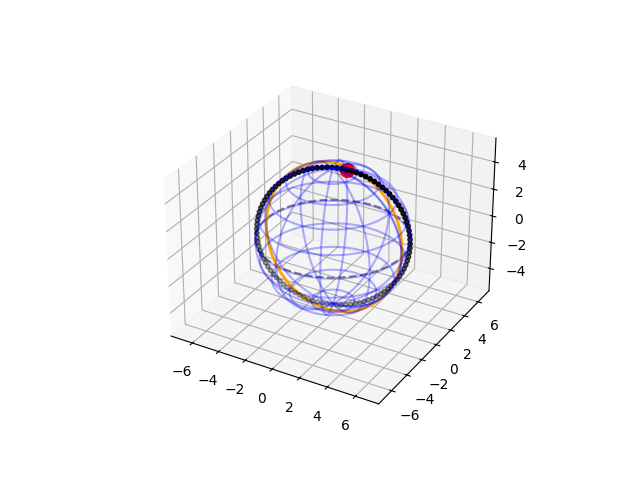
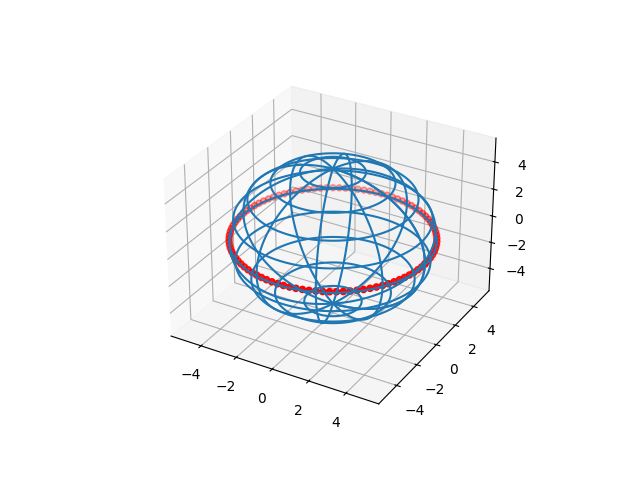
erydjyn

diff --git a/task4.py b/task4.py
@@ -13,68 +13,51 @@ z = R * np.outer(np.ones(np.size(phi)), np.cos(theta))
 
 ax.plot_wireframe(x, y, z, rstride=10, cstride=10)
 
-x1 = R * np.cos(phi)
-y1 = R * np.sin(phi)
-z1 = np.zeros_like(phi)
-
 x_1 = R * np.cos(phi)
 y_1 = R * np.sin(phi)
 z_1 = np.zeros(100)
 
-a = np.radians(40)    
-A = np.radians(250) 
-H = np.radians(50) 
+a = np.radians(40)      
+H = np.radians(250) 
+A = np.radians(50)
 
-x_2 = x_1
-y_2 = y_1 * np.cos(a) - z_1 * np.sin(a)
-z_2 = y_1 * np.sin(a) + z_1 * np.cos(a)
+x1 = x_1
+y1 = y_1 * np.cos(a) - z_1 * np.sin(a)
+z1 = y_1 * np.sin(a) + z_1 * np.cos(a)
 
-x2 = x1
-y2 = y1 * np.cos(a) - z1 * np.sin(a)
-z2 = y1 * np.sin(a) + z1 * np.cos(a)
+x2 = x1 * np.cos(H) + z1 * np.sin(H)
+y2 = y1
+z2 = -x1 * np.sin(H) + z1 * np.cos(H)
 
-x3 = x2 * np.cos(H) + z2 * np.sin(H)
-y3 = y2
-z3 = -x2 * np.sin(H) + z2 * np.cos(H)
+x3 = x2 * np.cos(A) - y2 * np.sin(A)
+y3 = x2 * np.sin(A) + y2 * np.cos(A)
+z3 = z2
 
-x_3 = x3 * np.cos(A) - y3 * np.sin(A)
-y_3 = x3 * np.sin(A) + y3 * np.cos(A)
-z_3 = z3
-ax.plot(x_1, y_1, z_1, color='r' )
+ax.plot(x_1, y_1, z_1, 'r')
 
-ax.plot(x_2, y_2, z_2, color='orange')
+ax.plot(x1, y1, z1, 'orange')
 
-ax.plot(x_3, y_3, z_3, color='y')
+ax.plot(x3, y3, z3, color='y')
 
-
-a_tok = (40)  
-b_tok = 250  
-t_tok = (50)  
-
-a_rad = np.radians(a_tok)
-b_rad = np.radians(b_tok)
-t_rad = np.radians(t_tok)
-
-x0 = R * np.cos(b_rad) * np.cos(t_rad)  
-y0 = R * np.cos(b_rad) * np.sin(t_rad)
-z0 = R * np.sin(b_rad)
+x0 = R * np.cos(a) * np.cos(A)
+y0 = R * np.cos(a) * np.sin(A)
+z0 = R * np.sin(a)
 
 x1_tok = x0
-y1_tok = y0 * np.cos(a_rad) - z0 * np.sin(a_rad)
-z1_tok = y0 * np.sin(a_rad) + z0 * np.cos(a_rad)
+y1_tok = y0 * np.cos(a) - z0 * np.sin(a)
+z1_tok = y0 * np.sin(a) + z0 * np.cos(a)
 
-x2_tok = x1_tok * np.cos(A) + z1_tok * np.sin(A) 
+x2_tok = x1_tok * np.cos(H) + z1_tok * np.sin(H)
 y2_tok = y1_tok
-z2_tok = -x1_tok * np.sin(A) + z1_tok * np.cos(A)
+z2_tok = -x1_tok * np.sin(H) + z1_tok * np.cos(H)
 
-x_3_tok = x2_tok * np.cos(H) - y2_tok * np.sin(H)
-y_3_tok = x2_tok * np.sin(H) + y2_tok * np.cos(H)
-z_3_tok = z2_tok
+new_A_tok = A + 5  
+A_tok = np.radians(new_A_tok)
 
+x3_tok = x2_tok * np.cos(A_tok) - y2_tok * np.sin(A_tok)
+y3_tok = x2_tok * np.sin(A_tok) + y2_tok * np.cos(A_tok)
+z3_tok = z2_tok
 
-x0 = R * np.cos(np.radians(b_tok)) * np.cos(np.radians(a_tok))
-y0 = R * np.cos(np.radians(b_tok)) * np.sin(np.radians(a_tok))
-z0 = R * np.sin(np.radians(b_tok))
+ax.scatter(x3_tok, y3_tok, z3_tok, s=50, color='red')
 
-ax.scatter(x0, y0, z0,s=50, color='red')
 plt.savefig("fig_7.png")

diff --git a/task3.py b/task3.py
@@ -15,67 +15,49 @@ ax.plot_wireframe(x, y, z, rstride=10, cstride=10)
 
 x_1 = R * np.cos(phi)
 y_1 = R * np.sin(phi)
-z_1 = np.zeros(100)  
+z_1 = np.zeros(100)
 
-a = (-10  )
-b = 50  
-t = (-10 ) 
-
-a1 = np.radians(a)
-b1 = np.radians(b)
-t1 = np.radians(t)
-
-x_2 = x_1  
-y_2 = y_1 * np.cos(a1) - z_1 * np.sin(a1)
-z_2 = y_1 * np.sin(a1) + z_1 * np.cos(a1)
+a = np.radians(-10)      
+b = np.radians(50) 
+t = np.radians(-10)
 
 x1 = x_1
-y1 = y_1 * np.cos(a1) - z_1 * np.sin(a1)
-z1 = y_1 * np.sin(a1) + z_1 * np.cos(a1)
+y1 = y_1 * np.cos(a) - z_1 * np.sin(a)
+z1 = y_1 * np.sin(a) + z_1 * np.cos(a)
 
-x2 = x1 * np.cos(b1) + z1 * np.sin(b1)
+x2 = x1 * np.cos(b) + z1 * np.sin(b)
 y2 = y1
-z2 = -x1 * np.sin(b1) + z1 * np.cos(b1)
+z2 = -x1 * np.sin(b) + z1 * np.cos(b)
 
-x_3 = x2 * np.cos(t1) - y2 * np.sin(t1)
-y_3 = x2 * np.sin(t1) + y2 * np.cos(t1)
-z_3 = z2
+x3 = x2 * np.cos(t) - y2 * np.sin(t)
+y3 = x2 * np.sin(t) + y2 * np.cos(t)
+z3 = z2
 
 ax.plot(x_1, y_1, z_1, 'r')
 
-ax.plot(x_2, y_2, z_2, 'orange')
+ax.plot(x1, y1, z1, 'orange')
 
-ax.plot(x_3, y_3, z_3, color='y')
+ax.plot(x3, y3, z3, color='y')
 
-a_tok = (-10)  
-b_tok = 50  
-t_tok = (-10)  
-
-a_rad = np.radians(a_tok)
-b_rad = np.radians(b_tok)
-t_rad = np.radians(t_tok)
-
-x0 = R * np.cos(b_rad) * np.cos(t_rad)  
-y0 = R * np.cos(b_rad) * np.sin(t_rad)
-z0 = R * np.sin(b_rad)
+x0 = R * np.cos(a) * np.cos(t)
+y0 = R * np.cos(a) * np.sin(t)
+z0 = R * np.sin(a)
 
 x1_tok = x0
-y1_tok = y0 * np.cos(a_rad) - z0 * np.sin(a_rad)
-z1_tok = y0 * np.sin(a_rad) + z0 * np.cos(a_rad)
+y1_tok = y0 * np.cos(a) - z0 * np.sin(a)
+z1_tok = y0 * np.sin(a) + z0 * np.cos(a)
 
-x2_tok = x1_tok * np.cos(b1) + z1_tok * np.sin(b1) 
+x2_tok = x1_tok * np.cos(b) + z1_tok * np.sin(b)
 y2_tok = y1_tok
-z2_tok = -x1_tok * np.sin(b1) + z1_tok * np.cos(b1)
+z2_tok = -x1_tok * np.sin(b) + z1_tok * np.cos(b)
 
-x_3_tok = x2_tok * np.cos(t1) - y2_tok * np.sin(t1)
-y_3_tok = x2_tok * np.sin(t1) + y2_tok * np.cos(t1)
-z_3_tok = z2_tok
+new_t_tok = t + 5  
+t_tok = np.radians(new_t_tok)
 
+x3_tok = x2_tok * np.cos(t_tok) - y2_tok * np.sin(t_tok)
+y3_tok = x2_tok * np.sin(t_tok) + y2_tok * np.cos(t_tok)
+z3_tok = z2_tok
 
-x0 = R * np.cos(np.radians(b_tok)) * np.cos(np.radians(a_tok))
-y0 = R * np.cos(np.radians(b_tok)) * np.sin(np.radians(a_tok))
-z0 = R * np.sin(np.radians(b_tok))
+ax.scatter(x3_tok, y3_tok, z3_tok, s=50, color='red')
 
-ax.scatter(x0, y0, z0,s=100, color='red')
 plt.savefig("fig_6.png")
-
